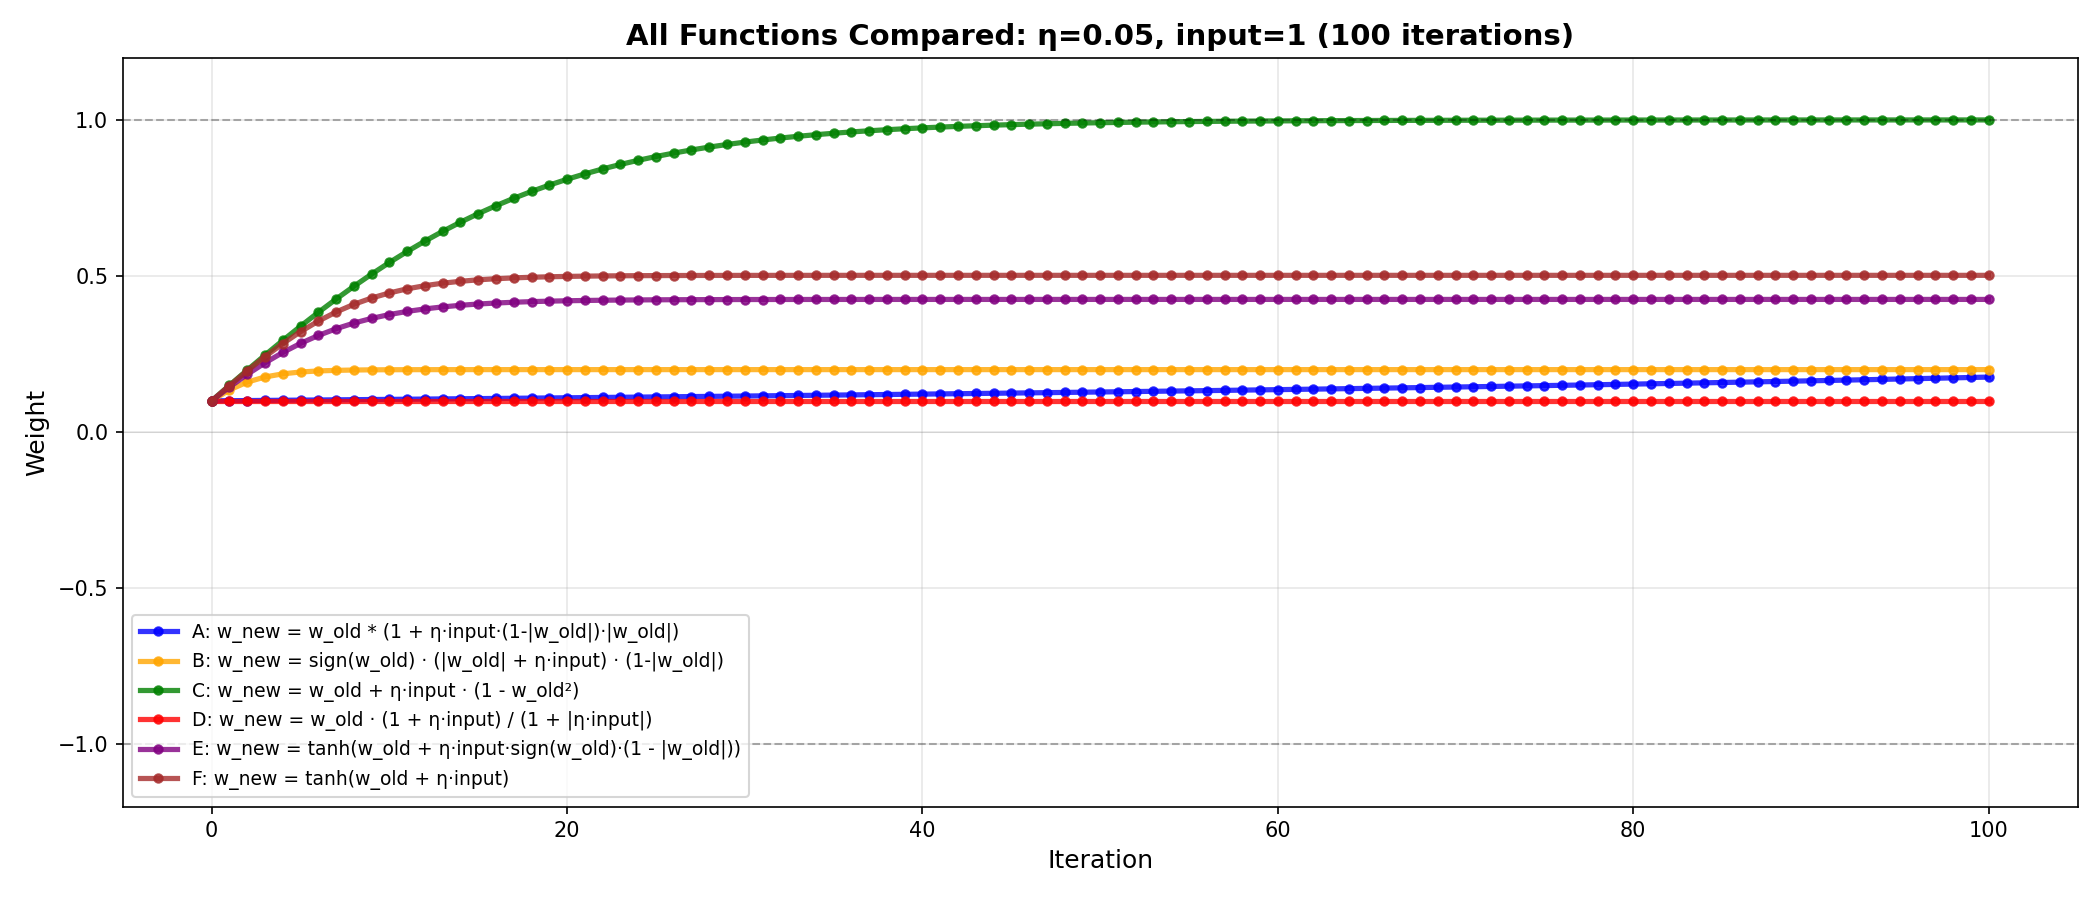
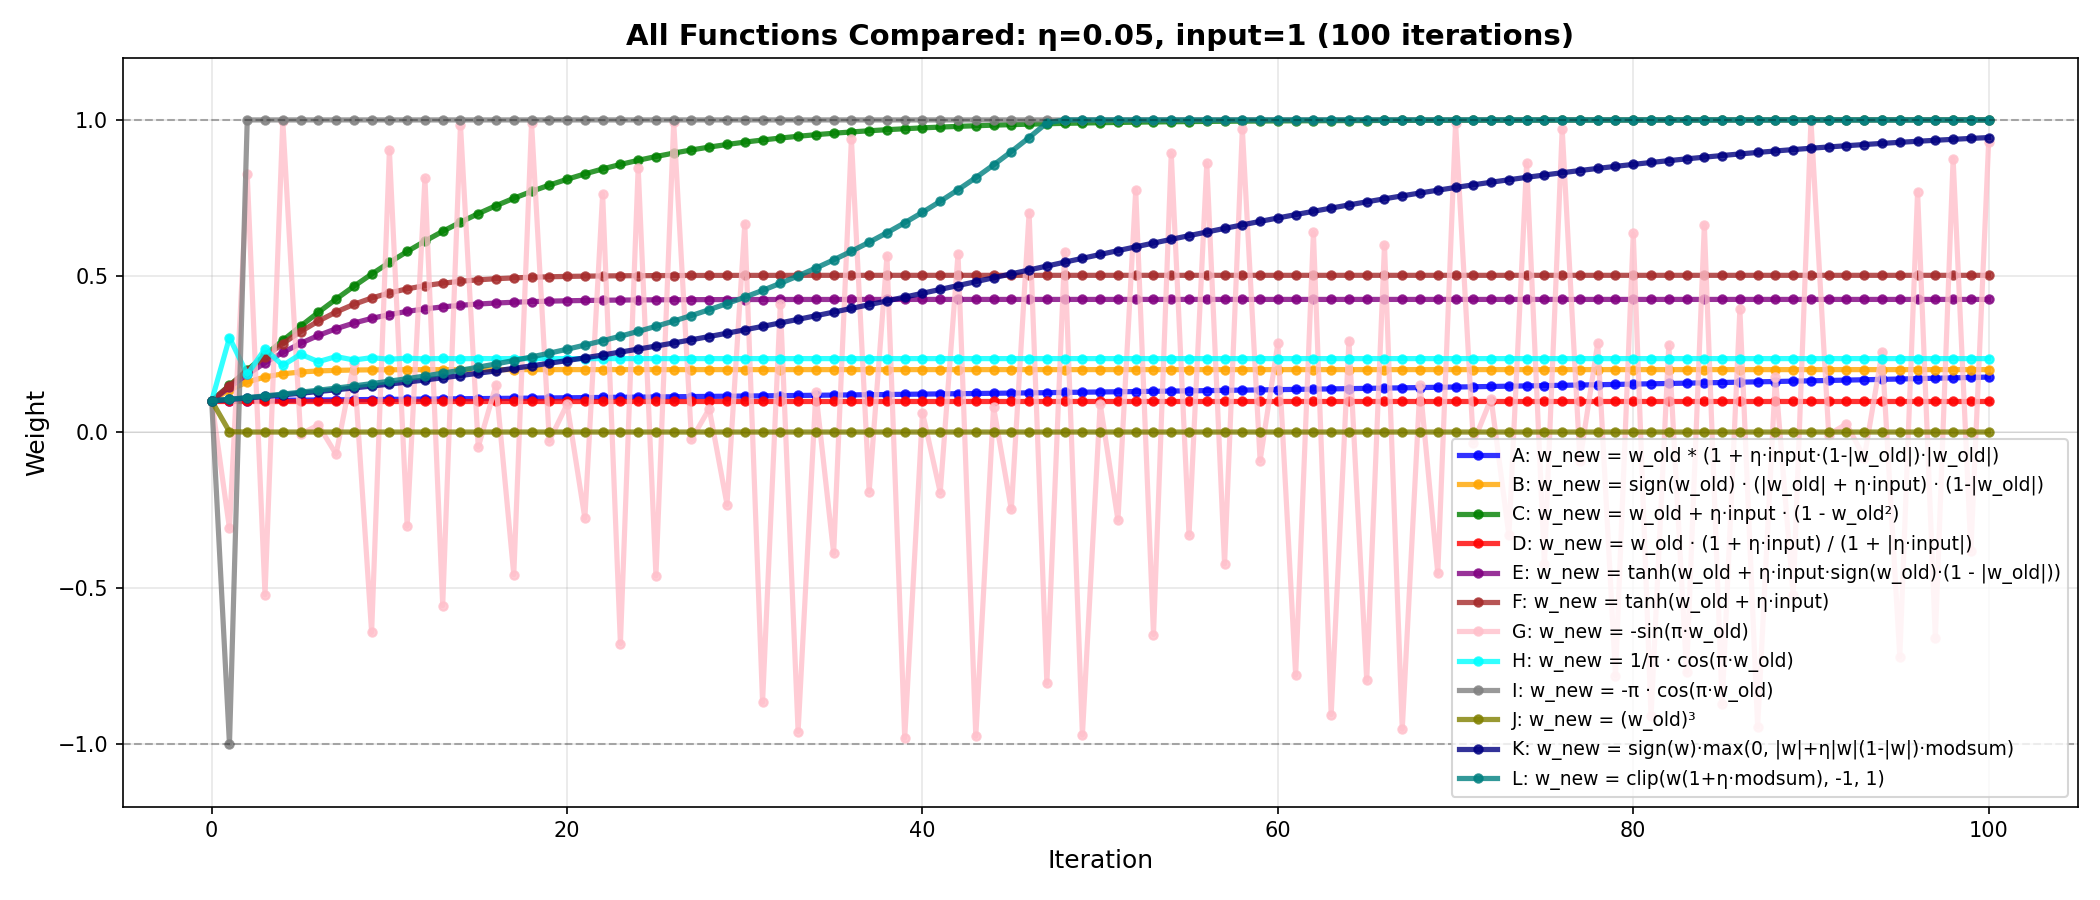
weight scaling dampened towards zero

Changed region(s): [[0.0619, 0.1244, 0.9905, 0.9022]]

diff --git a/weight_scaling/test_plasticity_functions.py b/weight_scaling/test_plasticity_functions.py
@@ -43,6 +43,33 @@ def fn_F(w, eta, inp):
     """F) w_new = tanh(w_old + eta*input)  [simple accumulator]"""
     return np.tanh(w + eta * inp)
 
+def fn_G(w, eta, inp):
+    """G) w_new = -sin(π*w_old)"""
+    return -np.sin(np.pi * w)
+
+def fn_H(w, eta, inp):
+    """H) w_new = 1/π * cos(π*w_old)"""
+    return (1 / np.pi) * np.cos(np.pi * w)
+
+def fn_I(w, eta, inp):
+    """I) w_new = -π * cos(π*w_old)"""
+    return -np.pi * np.cos(np.pi * w)
+
+def fn_J(w, eta, inp):
+    """J) w_new = (w_old)^3"""
+    return w**3
+
+def fn_K(w, eta, inp):
+    """K) w_new = sign(w_old) * max(0, |w_old| + η*|w_old|*(1-|w_old|)*modsum)"""
+    sign = np.sign(w) if w != 0 else 1
+    abs_w = abs(w)
+    magnitude = abs_w + eta * abs_w * (1 - abs_w) * inp
+    return sign * max(0, magnitude)
+
+def fn_L(w, eta, inp):
+    """L) w_new = clip(w_old * (1 + η*modsum), -1, 1)"""
+    return np.clip(w * (1 + eta * inp), -1, 1)
+
 functions = {
     'A': (fn_A, "w_new = w_old * (1 + η·input·(1-|w_old|)·|w_old|)"),
     'B': (fn_B, "w_new = sign(w_old) · (|w_old| + η·input) · (1-|w_old|)"),
@@ -50,6 +77,12 @@ functions = {
     'D': (fn_D, "w_new = w_old · (1 + η·input) / (1 + |η·input|)"),
     'E': (fn_E, "w_new = tanh(w_old + η·input·sign(w_old)·(1 - |w_old|))"),
     'F': (fn_F, "w_new = tanh(w_old + η·input)"),
+    'G': (fn_G, "w_new = -sin(π·w_old)"),
+    'H': (fn_H, "w_new = 1/π · cos(π·w_old)"),
+    'I': (fn_I, "w_new = -π · cos(π·w_old)"),
+    'J': (fn_J, "w_new = (w_old)³"),
+    'K': (fn_K, "w_new = sign(w)·max(0, |w|+η|w|(1-|w|)·modsum)"),
+    'L': (fn_L, "w_new = clip(w(1+η·modsum), -1, 1)"),
 }
 
 param_sets = [
@@ -62,17 +95,18 @@ w_init = 0.1
 
 # Generate plots for each function
 for fn_name, (fn, formula) in functions.items():
-    fig, axes = plt.subplots(1, 3, figsize=(15, 4))
+    fig, axes = plt.subplots(2, 3, figsize=(15, 8))
     fig.suptitle(f'Function {fn_name}: {formula}', fontsize=12, fontweight='bold')
     
+    # Top row: w_init = 0.1
     for idx, (eta, inp, label) in enumerate(param_sets):
-        weights = run_iterations(fn, w_init, eta, inp, num_iters=100)
+        weights = run_iterations(fn, 0.1, eta, inp, num_iters=100)
         
-        ax = axes[idx]
+        ax = axes[0, idx]
         ax.plot(weights, linewidth=2, marker='o', markersize=3, alpha=0.7)
         ax.set_xlabel('Iteration')
         ax.set_ylabel('Weight')
-        ax.set_title(label)
+        ax.set_title(label + " (w_init=+0.1)")
         ax.grid(True, alpha=0.3)
         ax.axhline(y=1.0, color='r', linestyle='--', alpha=0.3, label='w=1.0')
         ax.axhline(y=-1.0, color='r', linestyle='--', alpha=0.3, label='w=-1.0')
@@ -81,10 +115,29 @@ for fn_name, (fn, formula) in functions.items():
         
         # Print convergence point
         final_w = weights[-1]
-        print(f"Function {fn_name}, {label}: converges to w ≈ {final_w:.6f}")
+        print(f"Function {fn_name}, {label} (w_init=+0.1): converges to w ≈ {final_w:.6f}")
+    
+    # Bottom row: w_init = -0.1
+    for idx, (eta, inp, label) in enumerate(param_sets):
+        weights = run_iterations(fn, -0.1, eta, inp, num_iters=100)
+        
+        ax = axes[1, idx]
+        ax.plot(weights, linewidth=2, marker='o', markersize=3, alpha=0.7)
+        ax.set_xlabel('Iteration')
+        ax.set_ylabel('Weight')
+        ax.set_title(label + " (w_init=-0.1)")
+        ax.grid(True, alpha=0.3)
+        ax.axhline(y=1.0, color='r', linestyle='--', alpha=0.3, label='w=1.0')
+        ax.axhline(y=-1.0, color='r', linestyle='--', alpha=0.3, label='w=-1.0')
+        ax.set_ylim([-1.2, 1.2])
+        ax.legend(fontsize=8)
+        
+        # Print convergence point
+        final_w = weights[-1]
+        print(f"Function {fn_name}, {label} (w_init=-0.1): converges to w ≈ {final_w:.6f}")
     
     plt.tight_layout()
-    plt.savefig(f'c:\\work_hard\\byte\\plasticity_fn_{fn_name}.png', dpi=150)
+    plt.savefig(f'weight_scaling/plasticity_fn_{fn_name}.png', dpi=150)
     print(f"Saved: plasticity_fn_{fn_name}.png\n")
     plt.close()
 
@@ -92,7 +145,7 @@ for fn_name, (fn, formula) in functions.items():
 eta, inp = 0.1, 1
 fig, ax = plt.subplots(figsize=(14, 6))
 
-colors = ['blue', 'orange', 'green', 'red', 'purple', 'brown']
+colors = ['blue', 'orange', 'green', 'red', 'purple', 'brown', 'pink', 'cyan', 'gray', 'olive', 'navy', 'teal']
 for (fn_name, (fn, formula)), color in zip(functions.items(), colors):
     weights = run_iterations(fn, w_init, eta, inp, num_iters=100)
     ax.plot(weights, linewidth=2.5, marker='o', markersize=4, label=f'{fn_name}: {formula}', color=color, alpha=0.8)
@@ -107,7 +160,7 @@ ax.axhline(y=0.0, color='k', linestyle='-', alpha=0.1, linewidth=0.5)
 ax.set_ylim([-1.2, 1.2])
 ax.legend(fontsize=9, loc='best')
 plt.tight_layout()
-plt.savefig('c:\\work_hard\\byte\\plasticity_all_functions.png', dpi=150)
+plt.savefig('weight_scaling/plasticity_all_functions.png', dpi=150)
 print("Saved: plasticity_all_functions.png")
 plt.close()
 
@@ -115,7 +168,7 @@ plt.close()
 eta, inp = 0.2, -1
 fig, ax = plt.subplots(figsize=(14, 6))
 
-colors = ['blue', 'orange', 'green', 'red', 'purple', 'brown']
+colors = ['blue', 'orange', 'green', 'red', 'purple', 'brown', 'pink', 'cyan', 'gray', 'olive', 'navy', 'teal']
 for (fn_name, (fn, formula)), color in zip(functions.items(), colors):
     weights = run_iterations(fn, w_init, eta, inp, num_iters=100)
     ax.plot(weights, linewidth=2.5, marker='o', markersize=4, label=f'{fn_name}: {formula}', color=color, alpha=0.8)
@@ -130,7 +183,7 @@ ax.axhline(y=0.0, color='k', linestyle='-', alpha=0.1, linewidth=0.5)
 ax.set_ylim([-1.2, 1.2])
 ax.legend(fontsize=9, loc='best')
 plt.tight_layout()
-plt.savefig('c:\\work_hard\\byte\\plasticity_all_functions_eta02_input-1.png', dpi=150)
+plt.savefig('weight_scaling/plasticity_all_functions_eta02_input-1.png', dpi=150)
 print("Saved: plasticity_all_functions_eta02_input-1.png")
 plt.close()
 
@@ -138,7 +191,7 @@ plt.close()
 eta, inp = 0.5, -1
 fig, ax = plt.subplots(figsize=(14, 6))
 
-colors = ['blue', 'orange', 'green', 'red', 'purple', 'brown']
+colors = ['blue', 'orange', 'green', 'red', 'purple', 'brown', 'pink', 'cyan', 'gray', 'olive', 'navy', 'teal']
 for (fn_name, (fn, formula)), color in zip(functions.items(), colors):
     weights = run_iterations(fn, w_init, eta, inp, num_iters=100)
     ax.plot(weights, linewidth=2.5, marker='o', markersize=4, label=f'{fn_name}: {formula}', color=color, alpha=0.8)
@@ -153,7 +206,7 @@ ax.axhline(y=0.0, color='k', linestyle='-', alpha=0.1, linewidth=0.5)
 ax.set_ylim([-1.2, 1.2])
 ax.legend(fontsize=9, loc='best')
 plt.tight_layout()
-plt.savefig('c:\\work_hard\\byte\\plasticity_all_functions_eta05_input-1.png', dpi=150)
+plt.savefig('weight_scaling/plasticity_all_functions_eta05_input-1.png', dpi=150)
 print("Saved: plasticity_all_functions_eta05_input-1.png")
 plt.close()
 
@@ -161,7 +214,7 @@ plt.close()
 eta, inp = 0.05, 1
 fig, ax = plt.subplots(figsize=(14, 6))
 
-colors = ['blue', 'orange', 'green', 'red', 'purple', 'brown']
+colors = ['blue', 'orange', 'green', 'red', 'purple', 'brown', 'pink', 'cyan', 'gray', 'olive', 'navy', 'teal']
 for (fn_name, (fn, formula)), color in zip(functions.items(), colors):
     weights = run_iterations(fn, w_init, eta, inp, num_iters=100)
     ax.plot(weights, linewidth=2.5, marker='o', markersize=4, label=f'{fn_name}: {formula}', color=color, alpha=0.8)
@@ -176,7 +229,7 @@ ax.axhline(y=0.0, color='k', linestyle='-', alpha=0.1, linewidth=0.5)
 ax.set_ylim([-1.2, 1.2])
 ax.legend(fontsize=9, loc='best')
 plt.tight_layout()
-plt.savefig('c:\\work_hard\\byte\\plasticity_all_functions_eta0.05_input1.png', dpi=150)
+plt.savefig('weight_scaling/plasticity_all_functions_eta0.05_input1.png', dpi=150)
 print("Saved: plasticity_all_functions_eta0.05_input1.png")
 plt.close()
 
